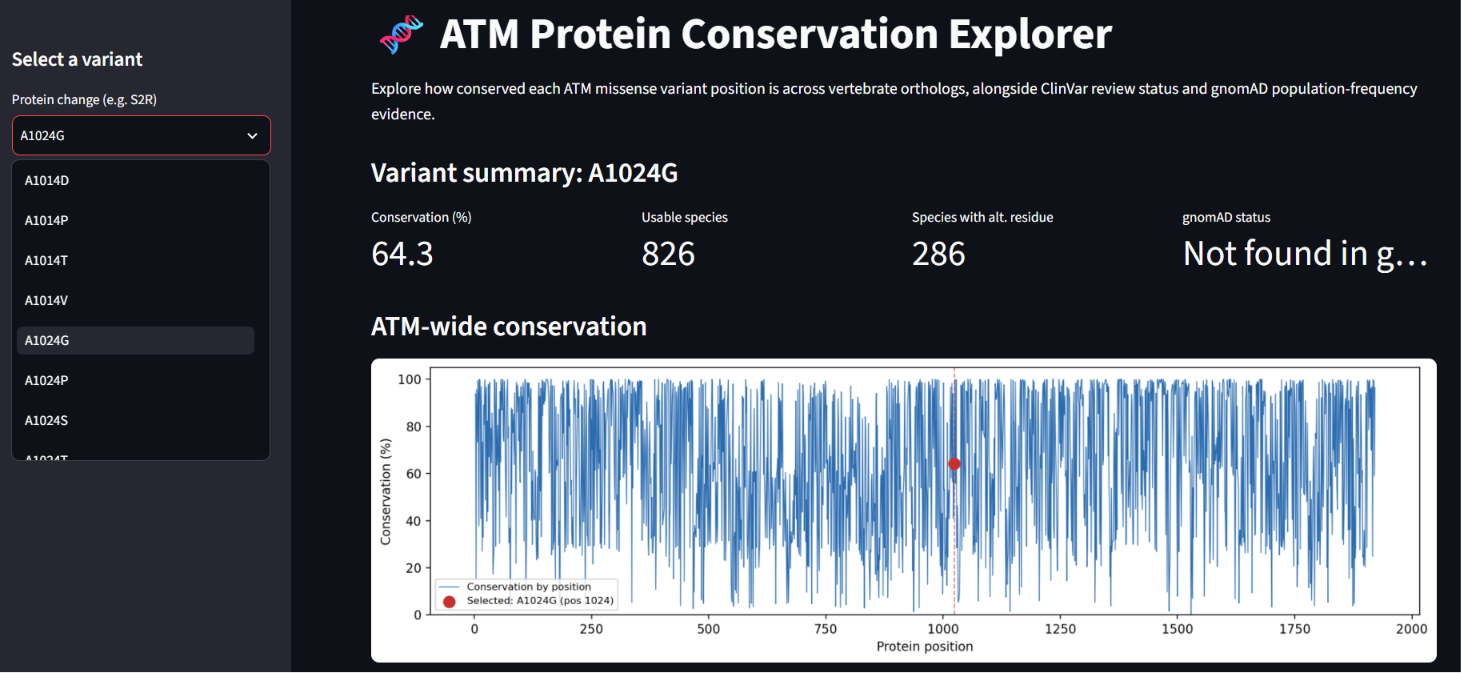
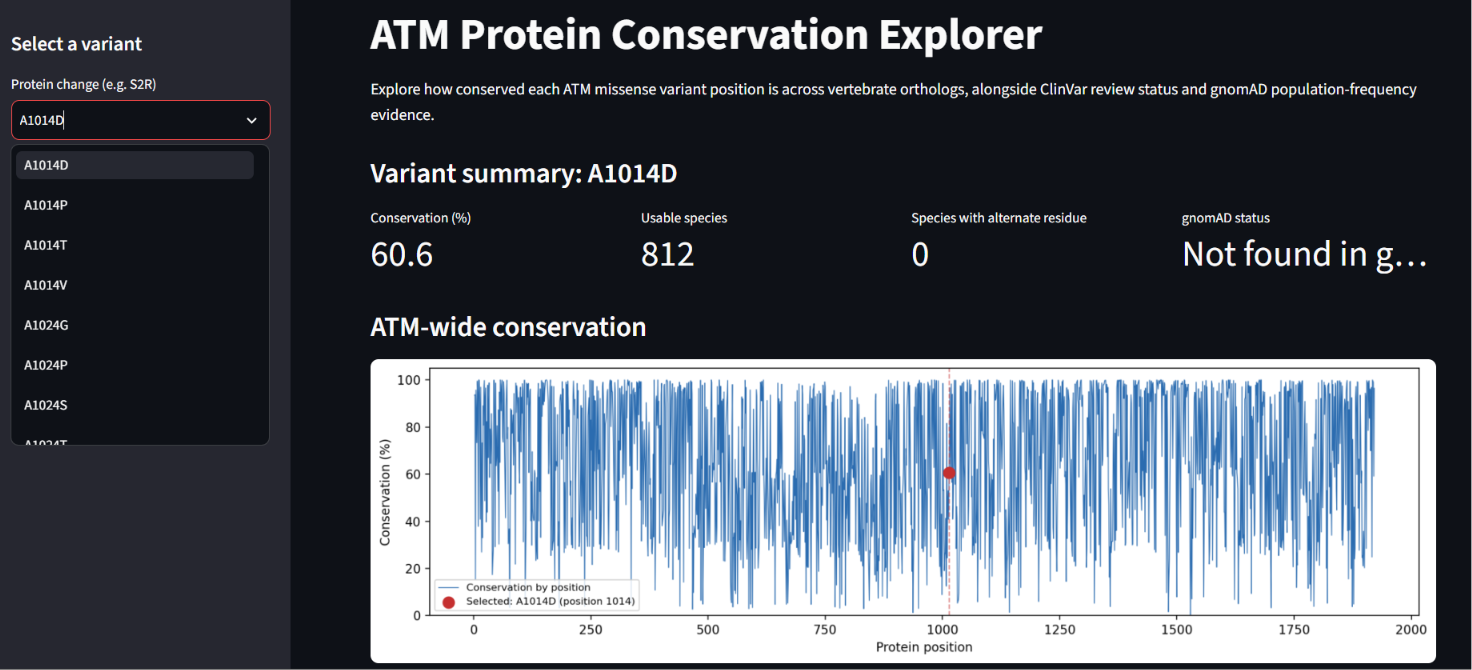
chore: professional title

diff --git a/app.py b/app.py
@@ -79,7 +79,7 @@ st.set_page_config(
     layout="wide",
 )
 
-st.title("🧬 ATM Protein Conservation Explorer")
+st.title("ATM Protein Conservation Explorer")
 
 st.write(
     "Explore how conserved each ATM missense variant position is across "
